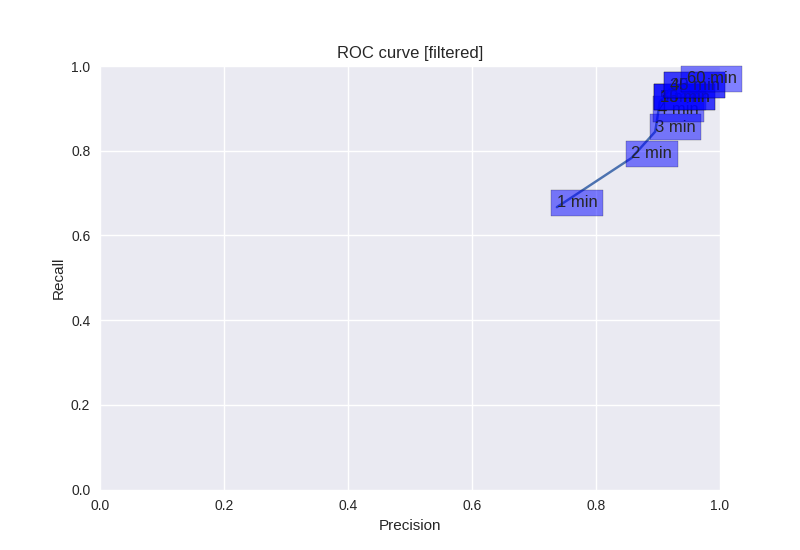
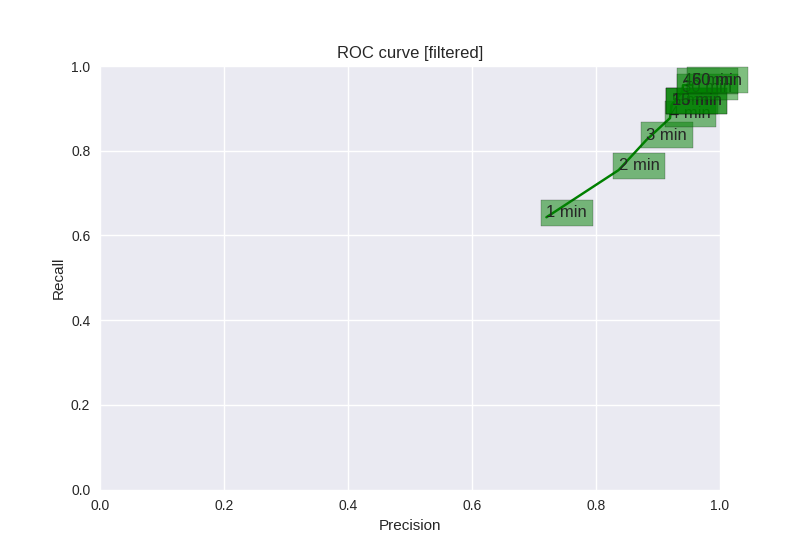
roc curve totally filtered

Changed region(s): [[0.6562, 0.0927, 0.9375, 0.4327]]

diff --git a/inter_event_time_by_url_analysis.py b/inter_event_time_by_url_analysis.py
@@ -50,8 +50,8 @@ def get_filtered_traces():
     for user in users:
         print ('user : ' + user.username)
 
-        #if user.username != 'neenagupta': #'clifford.wife':
-            #continue
+        if user.username != 'neenagupta' and user.username != 'clifford.wife' and user.username != 'bowen.wife' and user.username != 'bridgemen.wife' and user.username != 'bridgemen.husband' and user.username != 'chrismaley' and user.username != 'glutch' and user.username != 'kemianny':
+            continue
 
         devids = []
         for d in user.devices:
@@ -73,12 +73,16 @@ def get_filtered_traces():
         sql_dns = """SELECT ts, lag(ts) OVER (ORDER BY ts) FROM dnsreqs \
         WHERE devid =:d_id AND matches_blacklist = 'f' AND query_domain =:qdomain"""
 
-        sql_dns_no_filter = """SELECT ts, lag(ts) OVER (ORDER BY ts) FROM dnsreqs \
+        sql_dns_domain_time = """SELECT query_domain, ts, lag(ts) OVER (ORDER BY ts) FROM dnsreqs \
         WHERE devid =:d_id AND matches_blacklist = 'f'"""
 
         sql_userid = """SELECT login FROM devices WHERE id =:d_id"""
+        print devs
+        for elem_id in devids:
 
-        for elem_id in devids: 
+            plat =  devs[int(elem_id)]
+            if plat == 'macbook' or plat == 'ipad' or plat == 'iphone':
+                continue
             valid_url_list = []
             traces_dict = defaultdict(list)
             #idt = user.username+'.'+devs[int(elem_id)]
@@ -89,7 +93,7 @@ def get_filtered_traces():
                 #continue
 
             for row in ses.execute(text(sql_url).bindparams(d_id = elem_id)):
-                if row[0] and row[0] not in valid_url_list: #and not (is_in_blacklist(row[0], blacklist)):
+                if row[0] and not (is_in_blacklist(row[0], blacklist)):
                     valid_url_list.append(row[0])
             valid_url_list.append('dns')
 
@@ -97,7 +101,7 @@ def get_filtered_traces():
                 cdf_dist = defaultdict(int)
                 total_url_traces = 0
                 #get inter event times per url
-                """for row in ses.execute(text(sqlq).bindparams(d_id = elem_id, url = valid_url)):
+                for row in ses.execute(text(sqlq).bindparams(d_id = elem_id, url = valid_url)):
                     total_url_traces += 1
                     if row[1] == None:
                         continue
@@ -105,40 +109,44 @@ def get_filtered_traces():
                     if not cdf_dist[iat]:
                         cdf_dist[iat] = 1
                     else:
-                        cdf_dist[iat] += 1"""
+                        cdf_dist[iat] += 1
 
                 for row in ses.execute(text(sqlq).bindparams(d_id = elem_id, url = valid_url)):
                     if row[1] == None:
                         continue
                     iat = (row[0]-row[1]).total_seconds()
                     #filter by > 1s and percentage of iat 
-                    #if iat > 1 and (cdf_dist[iat]/float(total_url_traces) < 0.05)  and valid_url != 'su.ff.avast.com' and valid_url != 'stream1.bskyb.fyre.co':
+                    if iat > 1 and (cdf_dist[iat]/float(total_url_traces) < 0.05)  and valid_url != 'su.ff.avast.com' and valid_url != 'stream1.bskyb.fyre.co':
                     #traces_dict[valid_url].append(row[0])
-                    user_traces_dict[idt].append(row[0])
+                        user_traces_dict[idt].append(row[0])
 
             #get inter event times per query domain
-            """valid_dns_list = []
+            valid_dns_list = []
             for dnsreq in ses.execute(text(sql_domain).bindparams(d_id = elem_id)):
                 if not dnsreq[0]:
                     continue
                 dom = dnsreq[0]
-                if dom not in valid_dns_list:# and dom.rsplit('.')[-1] != 'Home':
+                if dom.rsplit('.')[-1] != 'Home':
                     valid_dns_list.append(dom)
             print len(valid_dns_list)
-            """
-            #=========no filter =============
+            
+            #========= filtered by domain =============
             #add dnsreqs
-            for row in ses.execute(text(sql_dns_no_filter).bindparams(d_id = elem_id)):
-                user_traces_dict[idt].append(row[0])
+            """for row in ses.execute(text(sql_dns_domain_time).bindparams(d_id = elem_id)):
+                dom = row[0]
+                if dom == None:
+                    user_traces_dict[idt].append(row[1])
+                elif dom.rsplit('.')[-1] != 'Home':
+                    user_traces_dict[idt].append(row[1])"""
             #=======================
 
-            #cont = 0
-            #for dnsreq in valid_dns_list:
+            cont = 0
+            for dnsreq in valid_dns_list:
                 #cont +=1
                 #print cont
-                #total_domain_traces = 0
-                #cdf_domain_dist = defaultdict(list)
-                """for row in ses.execute(text(sql_dns).bindparams(d_id = elem_id, qdomain = dnsreq)):
+                total_domain_traces = 0
+                cdf_domain_dist = defaultdict(list)
+                for row in ses.execute(text(sql_dns).bindparams(d_id = elem_id, qdomain = dnsreq)):
                     total_domain_traces += 1
                     if row[1] == None:
                         continue
@@ -146,15 +154,15 @@ def get_filtered_traces():
                     if not cdf_domain_dist[iat]:
                         cdf_domain_dist[iat] = 1
                     else:
-                        cdf_domain_dist[iat] += 1"""
+                        cdf_domain_dist[iat] += 1
                 #add dnsreqs
-                #for row in ses.execute(text(sql_dns).bindparams(d_id = elem_id, qdomain = dnsreq)):
-                    #if row[1] == None:
-                        #continue
-                    #iat = (row[0]-row[1]).total_seconds()
-                    #if iat > 1 and cdf_domain_dist[iat]/float(total_domain_traces) < 0.05:
-                        #traces_dict['dns'].append(row[0])
-                        #user_traces_dict[idt].append(row[0])
+                for row in ses.execute(text(sql_dns).bindparams(d_id = elem_id, qdomain = dnsreq)):
+                    if row[1] == None:
+                        continue
+                    iat = (row[0]-row[1]).total_seconds()
+                    if iat > 1 and cdf_domain_dist[iat]/float(total_domain_traces) < 0.05:
+                        traces_dict['dns'].append(row[0])
+                        user_traces_dict[idt].append(row[0])
 
             """if user.username == 'clifford.wife':
                 if elem_id == str(23):

diff --git a/inter_event_time_mixed_analysis.py b/inter_event_time_mixed_analysis.py
@@ -207,7 +207,7 @@ def plot_ROC_curve(tp_list, fp_list, tn_list, fn_list, username, beg_end):
     plt.ylim((0.0, 1.0))
     plt.xlabel('Precision')
     plt.xlim((0.0, 1.0))
-    plt.plot(x,y)
+    plt.plot(x,y, 'g')
 
     pos = defaultdict(int)
     for i in range(0, len(x)):
@@ -219,7 +219,7 @@ def plot_ROC_curve(tp_list, fp_list, tn_list, fn_list, username, beg_end):
             pos[x[i]+y[i]] += 0.1
             print pos[x[i]+y[i]]
 
-        plt.text (pos[x[i]+y[i]] + x[i], y[i], label, bbox=dict(facecolor='blue', alpha=0.5))
+        plt.text (pos[x[i]+y[i]] + x[i], y[i], label, bbox=dict(facecolor='green', alpha=0.5))
     #for xy in zip(x, y):                             
         #plt.annotate('(%s)' % xy, xy=xy, textcoords='data')
 
